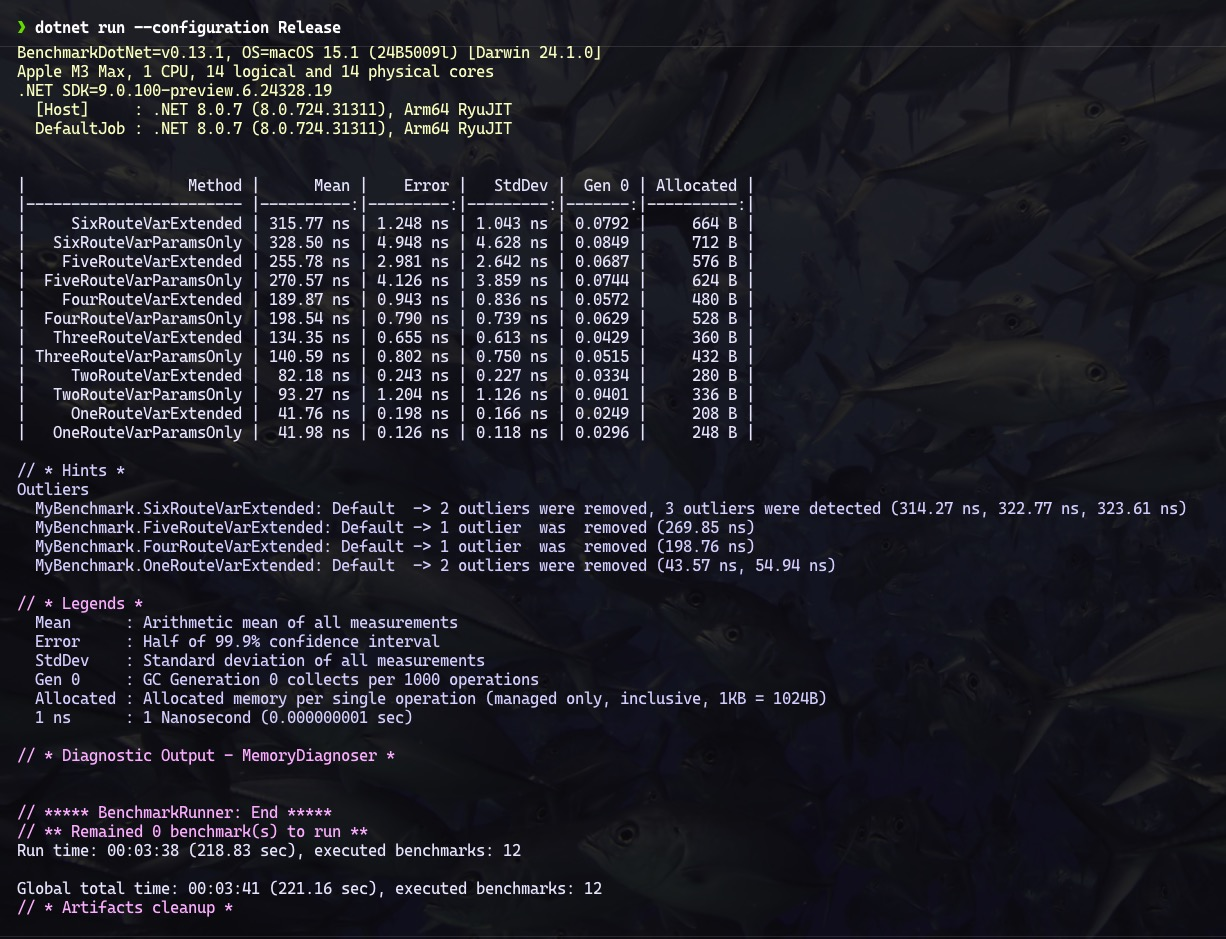
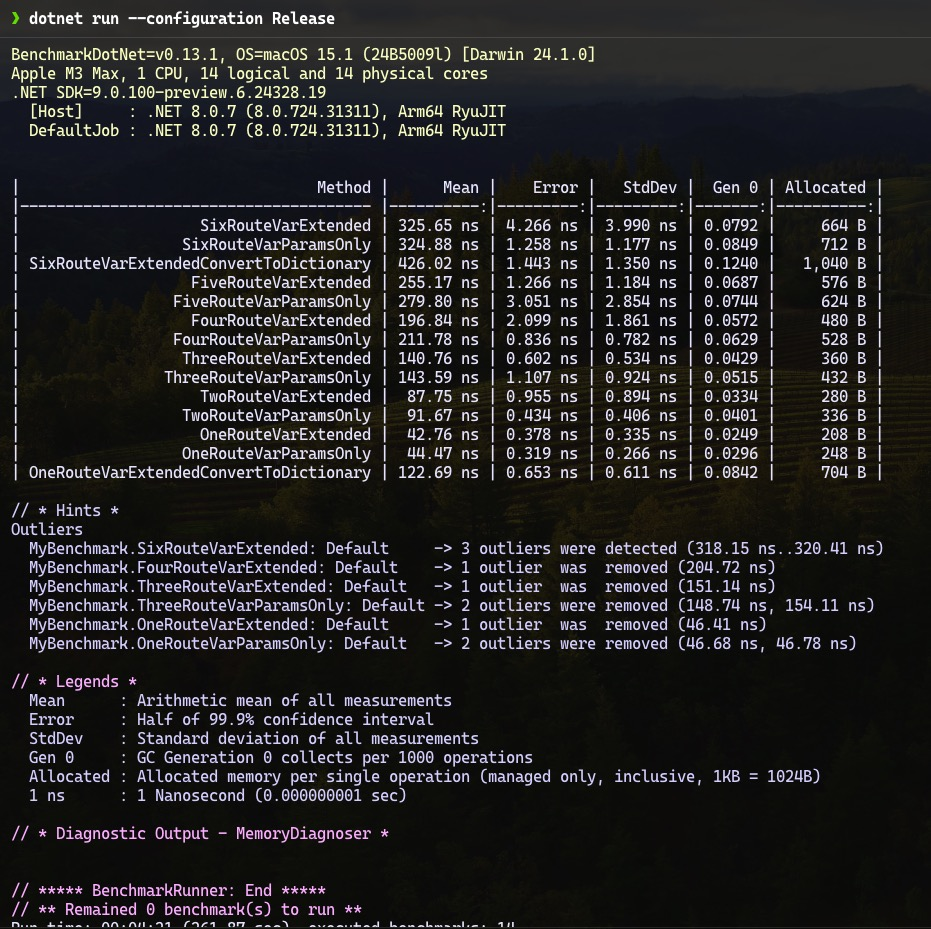
Adding convert to dictionary test

diff --git a/BenchmarkDotNet.Artifacts/results/MyBenchmark-report.html b/BenchmarkDotNet.Artifacts/results/MyBenchmark-report.html
@@ -2,7 +2,7 @@
 <html lang='en'>
 <head>
 <meta charset='utf-8' />
-<title>MyBenchmark-20240812-155503</title>
+<title>MyBenchmark-20240812-201515</title>
 
 <style type="text/css">
 	table { border-collapse: collapse; display: block; width: 100%; overflow: auto; }
@@ -22,20 +22,22 @@ Apple M3 Max, 1 CPU, 14 logical and 14 physical cores
 <pre><code></code></pre>
 
 <table>
-<thead><tr><th>           Method</th><th>Mean</th><th>Error</th><th>StdDev</th><th>Gen 0</th><th>Allocated</th>
+<thead><tr><th>                          Method</th><th>Mean</th><th>Error</th><th>StdDev</th><th>Gen 0</th><th>Allocated</th>
 </tr>
-</thead><tbody><tr><td>SixRouteVarExtended</td><td>315.77 ns</td><td>1.248 ns</td><td>1.043 ns</td><td>0.0792</td><td>664 B</td>
-</tr><tr><td>SixRouteVarParamsOnly</td><td>328.50 ns</td><td>4.948 ns</td><td>4.628 ns</td><td>0.0849</td><td>712 B</td>
-</tr><tr><td>FiveRouteVarExtended</td><td>255.78 ns</td><td>2.981 ns</td><td>2.642 ns</td><td>0.0687</td><td>576 B</td>
-</tr><tr><td>FiveRouteVarParamsOnly</td><td>270.57 ns</td><td>4.126 ns</td><td>3.859 ns</td><td>0.0744</td><td>624 B</td>
-</tr><tr><td>FourRouteVarExtended</td><td>189.87 ns</td><td>0.943 ns</td><td>0.836 ns</td><td>0.0572</td><td>480 B</td>
-</tr><tr><td>FourRouteVarParamsOnly</td><td>198.54 ns</td><td>0.790 ns</td><td>0.739 ns</td><td>0.0629</td><td>528 B</td>
-</tr><tr><td>ThreeRouteVarExtended</td><td>134.35 ns</td><td>0.655 ns</td><td>0.613 ns</td><td>0.0429</td><td>360 B</td>
-</tr><tr><td>ThreeRouteVarParamsOnly</td><td>140.59 ns</td><td>0.802 ns</td><td>0.750 ns</td><td>0.0515</td><td>432 B</td>
-</tr><tr><td>TwoRouteVarExtended</td><td>82.18 ns</td><td>0.243 ns</td><td>0.227 ns</td><td>0.0334</td><td>280 B</td>
-</tr><tr><td>TwoRouteVarParamsOnly</td><td>93.27 ns</td><td>1.204 ns</td><td>1.126 ns</td><td>0.0401</td><td>336 B</td>
-</tr><tr><td>OneRouteVarExtended</td><td>41.76 ns</td><td>0.198 ns</td><td>0.166 ns</td><td>0.0249</td><td>208 B</td>
-</tr><tr><td>OneRouteVarParamsOnly</td><td>41.98 ns</td><td>0.126 ns</td><td>0.118 ns</td><td>0.0296</td><td>248 B</td>
+</thead><tbody><tr><td>SixRouteVarExtended</td><td>325.65 ns</td><td>4.266 ns</td><td>3.990 ns</td><td>0.0792</td><td>664 B</td>
+</tr><tr><td>SixRouteVarParamsOnly</td><td>324.88 ns</td><td>1.258 ns</td><td>1.177 ns</td><td>0.0849</td><td>712 B</td>
+</tr><tr><td>SixRouteVarExtendedConvertToDictionary</td><td>426.02 ns</td><td>1.443 ns</td><td>1.350 ns</td><td>0.1240</td><td>1,040 B</td>
+</tr><tr><td>FiveRouteVarExtended</td><td>255.17 ns</td><td>1.266 ns</td><td>1.184 ns</td><td>0.0687</td><td>576 B</td>
+</tr><tr><td>FiveRouteVarParamsOnly</td><td>279.80 ns</td><td>3.051 ns</td><td>2.854 ns</td><td>0.0744</td><td>624 B</td>
+</tr><tr><td>FourRouteVarExtended</td><td>196.84 ns</td><td>2.099 ns</td><td>1.861 ns</td><td>0.0572</td><td>480 B</td>
+</tr><tr><td>FourRouteVarParamsOnly</td><td>211.78 ns</td><td>0.836 ns</td><td>0.782 ns</td><td>0.0629</td><td>528 B</td>
+</tr><tr><td>ThreeRouteVarExtended</td><td>140.76 ns</td><td>0.602 ns</td><td>0.534 ns</td><td>0.0429</td><td>360 B</td>
+</tr><tr><td>ThreeRouteVarParamsOnly</td><td>143.59 ns</td><td>1.107 ns</td><td>0.924 ns</td><td>0.0515</td><td>432 B</td>
+</tr><tr><td>TwoRouteVarExtended</td><td>87.75 ns</td><td>0.955 ns</td><td>0.894 ns</td><td>0.0334</td><td>280 B</td>
+</tr><tr><td>TwoRouteVarParamsOnly</td><td>91.67 ns</td><td>0.434 ns</td><td>0.406 ns</td><td>0.0401</td><td>336 B</td>
+</tr><tr><td>OneRouteVarExtended</td><td>42.76 ns</td><td>0.378 ns</td><td>0.335 ns</td><td>0.0249</td><td>208 B</td>
+</tr><tr><td>OneRouteVarParamsOnly</td><td>44.47 ns</td><td>0.319 ns</td><td>0.266 ns</td><td>0.0296</td><td>248 B</td>
+</tr><tr><td>OneRouteVarExtendedConvertToDictionary</td><td>122.69 ns</td><td>0.653 ns</td><td>0.611 ns</td><td>0.0842</td><td>704 B</td>
 </tr></tbody></table>
 </body>
 </html>

diff --git a/TestBench.cs b/TestBench.cs
@@ -34,6 +34,17 @@ public class MyBenchmark
   }
 
   [Benchmark]
+  public string SixRouteVarExtendedConvertToDictionary()
+  {
+    return _endpointRouteFormatter.FormatEndpointWithRouteVariablesConvertToDictionary(EndpointUrlWithSix, ("var1", "1"),
+            ("var2", "2"),
+            ("var3", "3"),
+            ("var4", "4"),
+            ("var5", "5"),
+            ("var6", "6"));
+  }
+
+  [Benchmark]
   public string FiveRouteVarExtended()
   {
     return _endpointRouteFormatter.FormatEndpointWithRouteVariables(EndpointUrlWithFive, ("var1", "1"),
@@ -112,6 +123,12 @@ public class MyBenchmark
   public string OneRouteVarParamsOnly()
   {
     return _endpointRouteFormatter.FormatEndpointWithRouteVariablesParamsOnly(EndpointUrlWithOne, ("var1", "1"));
+  }
+
+  [Benchmark]
+  public string OneRouteVarExtendedConvertToDictionary()
+  {
+    return _endpointRouteFormatter.FormatEndpointWithRouteVariablesConvertToDictionary(EndpointUrlWithSix, ("var1", "1"));
   }
 
 }

diff --git a/EndpointRouteFormatter.cs b/EndpointRouteFormatter.cs
@@ -13,6 +13,15 @@ public class EndpointRouteFormatter
     return formattedEndpoint.ToString();
   }
 
+  public string FormatEndpointWithRouteVariablesConvertToDictionary(string endpointUrl, params (string Key, object Value)[] routeVariables)
+  {
+    var routeVariablesDictionary = routeVariables.ToDictionary(
+            routeVariable => routeVariable.Key,
+            routeVariable => routeVariable.Value.ToString() ?? throw new ArgumentException("Route parameter cannot be null"));
+
+    return FormatEndpointWithRouteVariables(endpointUrl, routeVariablesDictionary);
+  }
+
   public string FormatEndpointWithRouteVariables(string endpointUrl, (string Key, object Value) routeVariables1)
   {
     var formattedEndpoint = new StringBuilder(endpointUrl);

diff --git a/BenchmarkDotNet.Artifacts/results/MyBenchmark-report-github.md b/BenchmarkDotNet.Artifacts/results/MyBenchmark-report-github.md
@@ -8,17 +8,19 @@ Apple M3 Max, 1 CPU, 14 logical and 14 physical cores
 
 
 ```
-|                  Method |      Mean |    Error |   StdDev |  Gen 0 | Allocated |
-|------------------------ |----------:|---------:|---------:|-------:|----------:|
-|     SixRouteVarExtended | 315.77 ns | 1.248 ns | 1.043 ns | 0.0792 |     664 B |
-|   SixRouteVarParamsOnly | 328.50 ns | 4.948 ns | 4.628 ns | 0.0849 |     712 B |
-|    FiveRouteVarExtended | 255.78 ns | 2.981 ns | 2.642 ns | 0.0687 |     576 B |
-|  FiveRouteVarParamsOnly | 270.57 ns | 4.126 ns | 3.859 ns | 0.0744 |     624 B |
-|    FourRouteVarExtended | 189.87 ns | 0.943 ns | 0.836 ns | 0.0572 |     480 B |
-|  FourRouteVarParamsOnly | 198.54 ns | 0.790 ns | 0.739 ns | 0.0629 |     528 B |
-|   ThreeRouteVarExtended | 134.35 ns | 0.655 ns | 0.613 ns | 0.0429 |     360 B |
-| ThreeRouteVarParamsOnly | 140.59 ns | 0.802 ns | 0.750 ns | 0.0515 |     432 B |
-|     TwoRouteVarExtended |  82.18 ns | 0.243 ns | 0.227 ns | 0.0334 |     280 B |
-|   TwoRouteVarParamsOnly |  93.27 ns | 1.204 ns | 1.126 ns | 0.0401 |     336 B |
-|     OneRouteVarExtended |  41.76 ns | 0.198 ns | 0.166 ns | 0.0249 |     208 B |
-|   OneRouteVarParamsOnly |  41.98 ns | 0.126 ns | 0.118 ns | 0.0296 |     248 B |
+|                                 Method |      Mean |    Error |   StdDev |  Gen 0 | Allocated |
+|--------------------------------------- |----------:|---------:|---------:|-------:|----------:|
+|                    SixRouteVarExtended | 325.65 ns | 4.266 ns | 3.990 ns | 0.0792 |     664 B |
+|                  SixRouteVarParamsOnly | 324.88 ns | 1.258 ns | 1.177 ns | 0.0849 |     712 B |
+| SixRouteVarExtendedConvertToDictionary | 426.02 ns | 1.443 ns | 1.350 ns | 0.1240 |   1,040 B |
+|                   FiveRouteVarExtended | 255.17 ns | 1.266 ns | 1.184 ns | 0.0687 |     576 B |
+|                 FiveRouteVarParamsOnly | 279.80 ns | 3.051 ns | 2.854 ns | 0.0744 |     624 B |
+|                   FourRouteVarExtended | 196.84 ns | 2.099 ns | 1.861 ns | 0.0572 |     480 B |
+|                 FourRouteVarParamsOnly | 211.78 ns | 0.836 ns | 0.782 ns | 0.0629 |     528 B |
+|                  ThreeRouteVarExtended | 140.76 ns | 0.602 ns | 0.534 ns | 0.0429 |     360 B |
+|                ThreeRouteVarParamsOnly | 143.59 ns | 1.107 ns | 0.924 ns | 0.0515 |     432 B |
+|                    TwoRouteVarExtended |  87.75 ns | 0.955 ns | 0.894 ns | 0.0334 |     280 B |
+|                  TwoRouteVarParamsOnly |  91.67 ns | 0.434 ns | 0.406 ns | 0.0401 |     336 B |
+|                    OneRouteVarExtended |  42.76 ns | 0.378 ns | 0.335 ns | 0.0249 |     208 B |
+|                  OneRouteVarParamsOnly |  44.47 ns | 0.319 ns | 0.266 ns | 0.0296 |     248 B |
+| OneRouteVarExtendedConvertToDictionary | 122.69 ns | 0.653 ns | 0.611 ns | 0.0842 |     704 B |
